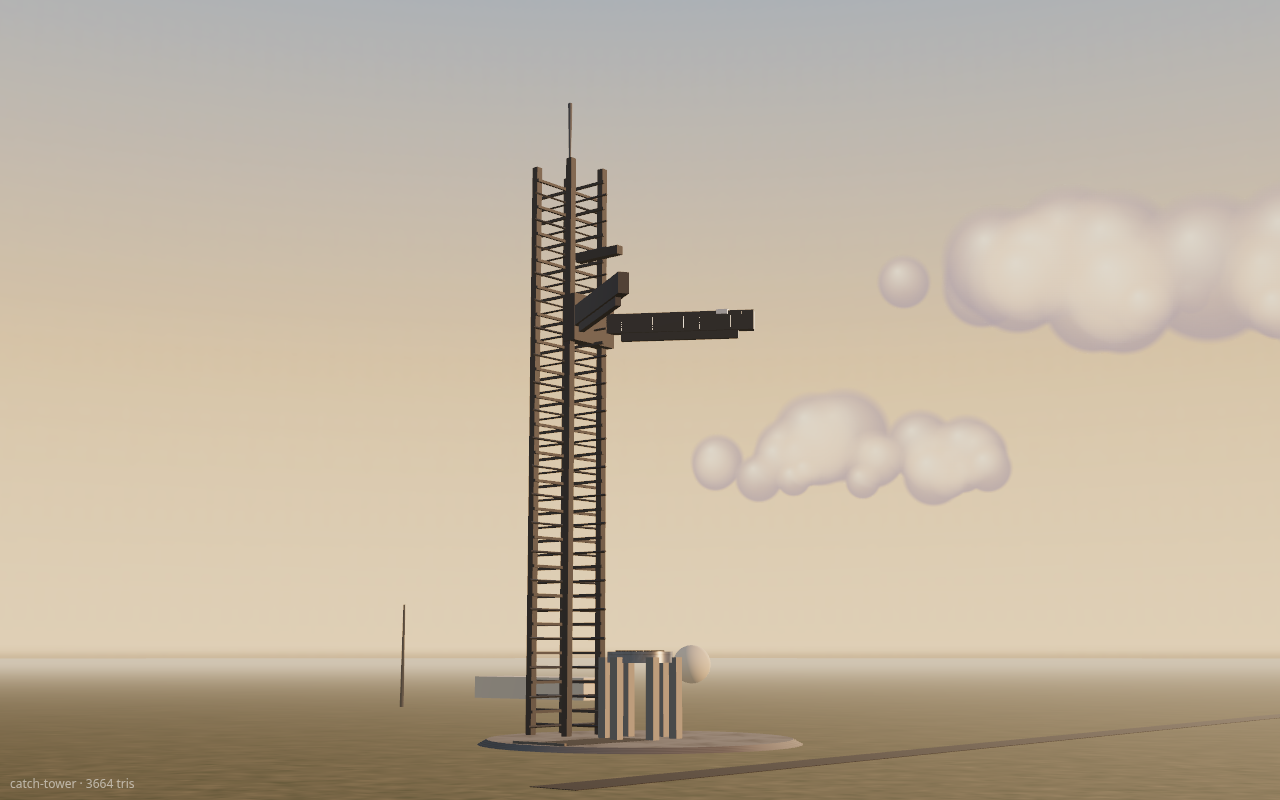
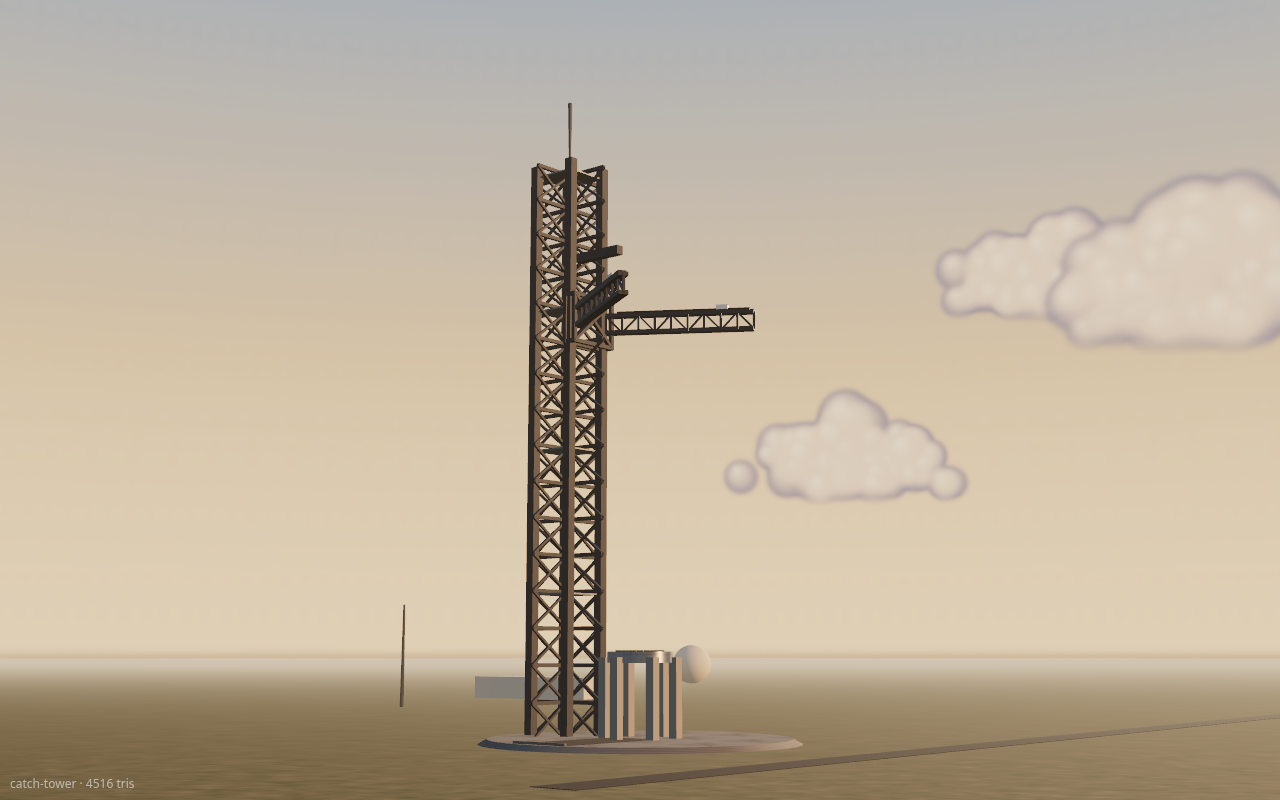
rockets-2 polish: cumulus clouds + haze, square X-braced catch tower + Warren-truss chopsticks, titan raceways/weld lands/QD plates, fine frost (fixes smudge), heron LOX frost, grid fins brighter w/ backing, carbon legs (fix fall-through to grid-fin alpha), close-ups bare + reframed

diff --git a/gfx/vehicles/vehicles.js b/gfx/vehicles/vehicles.js
@@ -23,6 +23,7 @@ function core9(detail, o = {}) {
   if (k.hi && !o.v11) for (const [x, z] of ringPos([[8, 1.22, PI / 8]])) k.add(new THREE.CylinderGeometry(0.52, 0.6, 0.35, 14, 1, true), 'shield', xf([x, 1.12, z])); // aft thermal boots
   const soot = Math.round((o.soot ?? 0.75) * 4) / 4; tube(k, r, r, H - 2.25, 2.25, `paint:${soot},0`, { hs: 1 }); // post-flight soot rising from the base (o.soot 0 fresh .. 1 heavily reflown)
   ring(k, r, H * 0.42, 0.02); raceway(k, r, 2.4, H - 0.4, PI / 2, 'dark');
+  if (o.frost) tube(k, r * 1.004, r * 1.004, H * 0.55 - 0.3, H * 0.45, 'frost', { open: true }); // LOX-tank frost (upper tank of the first stage) when fuelled
   decal(k, 'booster.side', r, H * 0.35, 4.2, 0, 1.3);
   if (o.nose) { ogive(k, r, 6.2, H, 'paint:0,0.6'); gridFins(k, r + 0.05, H - 1.6, 1.15, 1.4, 4, PI / 4, o.fins ?? 0.15); }
   else { tube(k, r, r, 6.6, H, o.v11 ? 'paint:0,0.2' : 'carbon'); gridFins(k, r + 0.05, H + 5.2, 1.15, 1.4, 4, PI / 4, o.fins ?? 0.15);
@@ -68,6 +69,8 @@ function titanBooster(detail, o) { const k = new Kit(detail), r = 4.5, H = o.boo
   tube(k, r, r, H - 4.6 - 1.8, 4.6, 'steel'); if (o.frost ?? 0) tube(k, r * 1.004, r * 1.004, H - 4.6 - 1.8, 4.6, 'frost', { open: true }); // cryo frost: LOX (lower) and CH4 (upper) tanks, clear at the common dome ring(k, r, 30, 0.03, 'grey'); ring(k, r, 52, 0.03, 'grey');
   if (k.hi) for (const a of [PI / 2 - 0.18, PI / 2 + 0.18]) k.add(new THREE.BoxGeometry(0.35, H - 8, 0.5), 'steel', xf([Math.cos(a) * (r + 0.15), H / 2, Math.sin(a) * (r + 0.15)], [0, -a, 0])); // chines
   decal(k, 'titanbooster.side', r, 40, 6, 0, 0.9);
+  if (k.hi) { for (const a of [PI * 0.25, PI * 1.25]) raceway(k, r, 6, H - 3, a, 'steel'); for (const y of [12, 30, 52]) ring(k, r, y, 0.035, 'grey'); // conduit raceways, weld lands
+    for (let i = 0; i < 4; i++) { const a = i * PI / 2 + PI / 4; k.add(new THREE.BoxGeometry(1.4, 1.0, 0.25), 'dark', xf([Math.cos(a) * (r + 0.1), 3.6, Math.sin(a) * (r + 0.1)], [0, -a + PI / 2, 0])); } } // QD / ground-service plates
   // vented hot-staging ring
   tube(k, r, r, 1.8, H - 1.8, 'dark'); if (k.hi) for (let i = 0; i < 24; i++) { const a = i / 24 * 2 * PI; k.add(new THREE.BoxGeometry(0.25, 1.4, 0.9), 'steel', xf([Math.cos(a) * r, H - 0.9, Math.sin(a) * r], [0, -a, 0])); }
   gridFins(k, r + 0.05, H - 5.5, 2.4, 3.2, o.gridFins || 3, PI / 2, o.fins ?? 1); // brief: v3/v4 boosters carry 3 grid fins
@@ -88,21 +91,32 @@ function ship(detail, y0, L = 52.1) { const k = new Kit(detail), r = 4.5, nose =
   for (const s of [-1, 1]) { flap(y0 + 1.5, 11, 5.0, 3.4, s, r); // aft
     flap(y0 + 2 + cyl + 3.5, 9, 3.4, 1.6, s, 4.1, 0); } // forward (on the nose, smaller, slightly leeward on v3)
   decal(k, 'ship.side', r, y0 + 20, 6, -PI / 2, 0.9); // leeward steel side
+  if (k.hi) { for (const a of [PI * 0.1, -PI * 0.1]) raceway(k, r, y0 + 3, y0 + 2 + cyl, a, 'steel'); for (const y of [y0 + 2.2, y0 + 2 + cyl * 0.42, y0 + 2 + cyl - 0.3]) ring(k, r, y, 0.04, 'grey'); // raceways, aft dome / common dome / forward weld lands
+    k.add(new THREE.BoxGeometry(1.6, 1.2, 0.2), 'dark', xf([0, y0 + 2 + cyl - 3, r + 0.05])); } // payload/door hatch outline
   const g = k.build('upper'); g.userData.top = y0 + 2 + cyl + nose; return g; }
 function titan(o) { const b = titanBooster(o.detail, o), s = ship(o.detail, b.userData.height, o.shipH || 52.1); return group('titan', [b, s], s.userData.top); }
 // ---- ground systems: catch tower with chopsticks + orbital launch mount ----
-function catchTower(o) { const k = new Kit(o.detail), W = 12, H = 146, TX = -24, lv = 7, n = Math.floor(H / lv);
+function catchTower(o) { const k = new Kit(o.detail), W = 12, H = 146, TX = -24, lv = 9, n = Math.floor(H / lv);
   tube(k, 30, 32, 2, -2, 'concrete', { seg: 48 });
-  for (const [dx, dz] of [[-1, -1], [1, -1], [1, 1], [-1, 1]]) k.add(new THREE.BoxGeometry(1.8, H, 1.8), 'tower', xf([TX + dx * W / 2, H / 2, dz * W / 2]));
-  for (let i = 0; i < n; i++) for (let f = 0; f < 4; f++) { const ry = f * PI / 2, cx = Math.sin(ry) * W / 2, cz = Math.cos(ry) * W / 2;
-    k.add(new THREE.BoxGeometry(W, 0.7, 0.7), 'tower', xf([TX + cx, (i + 1) * lv, cz], [0, ry + PI / 2, 0]));
-    if (k.hi || i % 2) k.add(new THREE.BoxGeometry(Math.hypot(W, lv), 0.45, 0.45), 'tower', xf([TX + cx, i * lv + lv / 2, cz], [(i % 2 ? 1 : -1) * Math.atan2(lv, W), ry + PI / 2, 0])); }
+  // square lattice: 4 corner chords, a horizontal ring and X bracing on every face of every bay, floor decks every 4 bays
+  for (const [dx, dz] of [[-1, -1], [1, -1], [1, 1], [-1, 1]]) k.add(new THREE.BoxGeometry(2.2, H, 2.2), 'tower', xf([TX + dx * W / 2, H / 2, dz * W / 2]));
+  const dl = Math.hypot(W, lv), da = Math.atan2(lv, W);
+  for (let i = 0; i < n; i++) { for (let f = 0; f < 4; f++) { const ry = f * PI / 2, cx = Math.sin(ry) * W / 2, cz = Math.cos(ry) * W / 2;
+      k.add(new THREE.BoxGeometry(W, 0.9, 0.9), 'tower', xf([TX + cx, (i + 1) * lv, cz], [0, ry + PI / 2, 0]));
+      for (const sg of k.hi ? [1, -1] : [i % 2 ? 1 : -1]) k.add(new THREE.BoxGeometry(dl, 0.6, 0.6), 'tower', xf([TX + cx, i * lv + lv / 2, cz], [0, ry + PI / 2, sg * da])); }
+    if (k.hi && i % 4 === 3) k.add(new THREE.BoxGeometry(W, 0.4, W), 'grey', xf([TX, (i + 1) * lv - 0.6, 0])); }
   tube(k, 0.25, 0.6, 18, H, 'grey', { x: TX, seg: 8 }); // lightning mast
-  // chopsticks: carriage + two arms (open), at the vehicle-catch height
+  // chopsticks: lattice carriage + two Warren-truss arms (top/bottom chords, verticals, diagonals), at the catch height
   const cy = o.catchY ?? 104, open = o.open ?? 0.55; k.push(xf([TX + W / 2 + 1, cy, 0]));
-  k.add(new THREE.BoxGeometry(4, 12, W + 3), 'tower');
-  for (const s of [-1, 1]) { k.push(xf([1, 0, s * 5.5], [0, -s * open, 0]));
-    k.add(new THREE.BoxGeometry(38, 5, 2.6), 'tower', xf([19, 0, 0])); k.add(new THREE.BoxGeometry(30, 2.2, 1.4), 'tower', xf([19, -3.4, 0])); if (k.hi) { k.add(new THREE.BoxGeometry(34, 0.6, 2.2), 'dark', xf([18, 1.9, 0])); for (let j = 1; j < 9; j++) k.add(new THREE.BoxGeometry(0.3, 3.2, 1.7), 'grey', xf([j * 4, 0, 0])); k.add(new THREE.BoxGeometry(3, 1.2, 2.4), 'paint:0,0', xf([30, 2.2, -s * 0.4])); }
+  for (const [y, z] of [[-6, -7], [-6, 7], [6, -7], [6, 7]]) k.add(new THREE.BoxGeometry(4, 1, 1), 'tower', xf([0, y, z]));
+  for (const z of [-7, 7]) for (const x of [-1.5, 1.5]) k.add(new THREE.BoxGeometry(1, 13, 1), 'tower', xf([x, 0, z]));
+  for (const x of [-1.5, 1.5]) for (const y of [-6, 6]) k.add(new THREE.BoxGeometry(1, 1, 15), 'tower', xf([x, y, 0]));
+  for (const sg of [1, -1]) k.add(new THREE.BoxGeometry(1, Math.hypot(12, 14), 0.8), 'tower', xf([1.5, 0, 0], [sg * Math.atan2(14, 12), 0, 0])); // carriage face X-brace (in the Y-Z plane)
+  for (const s2 of [-1, 1]) { k.push(xf([1, 0, s2 * 5.5], [0, -s2 * open, 0])); const L = 38, hT = 4.4, nb = 9, bw = L / nb;
+    for (const y of [hT / 2, -hT / 2]) k.add(new THREE.BoxGeometry(L, 1.0, 2.4), 'tower', xf([L / 2, y, 0]));
+    for (let j = 0; j <= nb; j++) k.add(new THREE.BoxGeometry(0.6, hT, 0.6), 'tower', xf([j * bw, 0, 0]));
+    for (let j = 0; j < nb; j++) k.add(new THREE.BoxGeometry(Math.hypot(bw, hT), 0.45, 0.45), 'tower', xf([j * bw + bw / 2, 0, 0], [0, 0, (j % 2 ? 1 : -1) * Math.atan2(hT, bw)]));
+    if (k.hi) { k.add(new THREE.BoxGeometry(34, 0.5, 2.0), 'dark', xf([20, hT / 2 + 0.7, 0])); k.add(new THREE.BoxGeometry(3, 1.2, 2.4), 'paint:0,0', xf([30, hT / 2 + 1.2, -s2 * 0.4])); } // catch rail + catch block
     k.pop(); }
   k.pop();
   // ship quick-disconnect arm

diff --git a/gfx/vehicles/hero.html b/gfx/vehicles/hero.html
@@ -25,14 +25,18 @@ function skyTex(seed = 3) { const W = 1024, H = 512, c = document.createElement(
   const hz = x.createLinearGradient(0, H * 0.43, 0, H * 0.52); hz.addColorStop(0, 'rgba(255,220,180,0)'); hz.addColorStop(1, 'rgba(255,214,170,0.7)'); x.fillStyle = hz; x.fillRect(0, H * 0.43, W, H * 0.09);
   const t = new THREE.CanvasTexture(c); t.mapping = THREE.EquirectangularReflectionMapping; t.colorSpace = THREE.SRGBColorSpace; return t; }
 // cumulus billboards (crisp, high-res, lit tops / shaded bases) placed around the horizon
-function cloudTex(seed) { const W = 512, H = 200, c = document.createElement('canvas'); c.width = W; c.height = H; const x = c.getContext('2d'); let s = seed; const r = () => (s = (s * 16807) % 2147483647) / 2147483647;
-  const puffs = []; for (let i = 0; i < 26; i++) { const px = W * (0.12 + r() * 0.76), rr = 22 + r() * 48 * (1 - Math.abs(px / W - 0.5)); puffs.push([px, H * 0.78 - rr * (0.5 + r() * 0.9), rr]); }
-  for (const [px, py, rr] of puffs) { const g = x.createRadialGradient(px, py + rr * 0.35, 0, px, py, rr); g.addColorStop(0, 'rgba(150,135,150,0.95)'); g.addColorStop(0.85, 'rgba(165,150,160,0.9)'); g.addColorStop(1, 'rgba(165,150,160,0)'); x.fillStyle = g; x.beginPath(); x.arc(px, py, rr, 0, 7); x.fill(); }
-  for (const [px, py, rr] of puffs) { const g = x.createRadialGradient(px - rr * 0.25, py - rr * 0.4, 0, px, py, rr); g.addColorStop(0, 'rgba(255,236,205,0.95)'); g.addColorStop(0.6, 'rgba(250,215,180,0.45)'); g.addColorStop(1, 'rgba(250,215,180,0)'); x.fillStyle = g; x.beginPath(); x.arc(px, py, rr, 0, 7); x.fill(); }
+function cloudTex(seed) { const W = 512, H = 220, c = document.createElement('canvas'); c.width = W; c.height = H; const x = c.getContext('2d'); let s = seed; const r = () => (s = (s * 16807) % 2147483647) / 2147483647;
+  // connected cumulus: many small puffs gaussian-distributed along a flat base, blurred; sunlit tops, blue-grey shaded bases
+  const g2 = () => (r() + r() + r() - 1.5) / 1.5, puffs = [], base = H * 0.8;
+  for (let i = 0; i < 90; i++) { const px = W / 2 + g2() * W * 0.36, ht = 1 - Math.abs(px - W / 2) / (W * 0.5), rr = 10 + r() * 26 * ht + 6; puffs.push([px, base - rr * 0.6 - r() * ht * H * 0.45, rr]); }
+  x.filter = 'blur(3px)';
+  for (const [px, py, rr] of puffs) { x.fillStyle = 'rgba(128,124,146,0.9)'; x.beginPath(); x.arc(px, py, rr, 0, 7); x.fill(); }
+  for (const [px, py, rr] of puffs) { const g = x.createRadialGradient(px - rr * 0.3, py - rr * 0.45, 0, px, py, rr); g.addColorStop(0, 'rgba(255,232,200,1)'); g.addColorStop(0.55, 'rgba(240,206,176,0.7)'); g.addColorStop(1, 'rgba(240,206,176,0)'); x.fillStyle = g; x.beginPath(); x.arc(px, py, rr, 0, 7); x.fill(); }
+  x.filter = 'none'; x.globalCompositeOperation = 'destination-out'; const cut = x.createLinearGradient(0, base - 6, 0, base + 10); cut.addColorStop(0, 'rgba(0,0,0,0)'); cut.addColorStop(1, 'rgba(0,0,0,1)'); x.fillStyle = cut; x.fillRect(0, base - 6, W, H - base + 6);
   const t = new THREE.CanvasTexture(c); t.colorSpace = THREE.SRGBColorSpace; return t; }
 const clouds = new THREE.Group(); scene.add(clouds);
 { let s = 5; const r = () => (s = (s * 16807) % 2147483647) / 2147483647; for (let i = 0; i < 26; i++) { const sp = new THREE.Sprite(new THREE.SpriteMaterial({ map: cloudTex(11 + i * 7), transparent: true, depthWrite: false, fog: false, opacity: 0.9 }));
-  const a = r() * Math.PI * 2, R = 3500 + r() * 3000, w = 700 + r() * 1300; sp.scale.set(w, w * 200 / 512, 1); sp.position.set(Math.cos(a) * R, R * Math.tan((3 + r() * 14) * Math.PI / 180), Math.sin(a) * R); sp.renderOrder = -1; clouds.add(sp); } }
+  const a = r() * Math.PI * 2, R = 3500 + r() * 3000, w = 700 + r() * 1300; sp.scale.set(w, w * 220 / 512, 1); sp.position.set(Math.cos(a) * R, R * Math.tan((3 + r() * 14) * Math.PI / 180), Math.sin(a) * R); sp.renderOrder = -1; clouds.add(sp); } }
 const sky = skyTex(); scene.background = sky; scene.environment = GX.envTexture(); scene.environmentIntensity = 0.45; // game env, dimmed: fill without flattening
 const hemi = new THREE.HemisphereLight(0xbfd4f0, 0x5a4a38, 0.35); scene.add(hemi);
 const key = new THREE.DirectionalLight(0xffc48a, 4.2); scene.add(key); scene.add(key.target); // golden-hour key
@@ -82,7 +86,7 @@ const RADIUS = { 'sparrow-1': 0.84, 'heron-9': 1.83, 'heron-9-v11': 1.83, 'heron
 let cur = null;
 // shot: { id, opts, hero:true (auto-frame 85 % of the height, low 3/4) | cam/aim in vehicle heights, fov, sunAz (deg, from camera), only, legs, bare (no set) }
 async function shot(s) { if (cur) { dispose(cur); cur = null; } const h = VEHICLES[s.id].height, rV = RADIUS[s.id] || 2;
-  const lift = s.bare ? (clearStage(), 0) : setStage(s.id, h, rV);
+  const bare = s.bare ?? !(s.hero || s.set); const lift = bare ? (clearStage(), 0) : setStage(s.id, h, rV);
   cur = build(s.id, { detail: s.lo ? 'lo' : 'hi', ...(s.opts || {}) }); cur.position.y = s.id === 'catch-tower' ? 0 : lift; stage.add(cur);
   if (s.only) for (const c of cur.children) c.visible = c.name === s.only;
   if (s.legs !== undefined) for (const L of cur.userData.legs || []) setLegs(L, s.legs);

diff --git a/gfx/vehicles/textures.js b/gfx/vehicles/textures.js
@@ -54,9 +54,11 @@ export function bell(ext = false) { return once('bell' + ext, () => { const [c, 
 export function solarCells() { return once('solar', () => { const [c, x] = canvas(256, 128); x.fillStyle = '#0d1630'; x.fillRect(0, 0, 256, 128); x.strokeStyle = '#2a3c6a'; x.lineWidth = 1;
   for (let i = 0; i <= 256; i += 16) { x.beginPath(); x.moveTo(i, 0); x.lineTo(i, 128); x.stroke(); } for (let j = 0; j <= 128; j += 16) { x.beginPath(); x.moveTo(0, j); x.lineTo(256, j); x.stroke(); } return fin(c); }); }
 // frost bands (alpha) for a cryogenic tank barrel: v = 0 bottom .. 1 top; bands = [[v0, v1], ...]
-export function frost(bands = [[0.04, 0.5], [0.56, 0.86]]) { return once('frost' + bands, () => { const [c, x] = canvas(64, 512), r = rng(11); x.fillStyle = '#000'; x.fillRect(0, 0, 64, 512);
-  for (const [a, b] of bands) { const y0 = 512 * (1 - b), y1 = 512 * (1 - a), g = x.createLinearGradient(0, y0, 0, y1); g.addColorStop(0, 'rgba(255,255,255,0)'); g.addColorStop(0.08, 'rgba(255,255,255,0.32)'); g.addColorStop(0.92, 'rgba(255,255,255,0.38)'); g.addColorStop(1, 'rgba(255,255,255,0)'); x.fillStyle = g; x.fillRect(0, y0, 64, y1 - y0); }
-  for (let i = 0; i < 400; i++) { x.fillStyle = `rgba(0,0,0,${r() * 0.35})`; x.fillRect(r() * 64, r() * 512, 1 + r() * 3, 2 + r() * 14); } // runs and thin patches
+export function frost(bands = [[0.04, 0.5], [0.56, 0.86]]) { return once('frost' + bands, () => { const [c, x] = canvas(256, 1024), r = rng(11); x.fillStyle = '#000'; x.fillRect(0, 0, 256, 1024);
+  // fine, even cryo frost: soft-edged bands, many thin vertical runs (no coarse dark blotches)
+  for (const [a, b] of bands) { const y0 = 1024 * (1 - b), y1 = 1024 * (1 - a), g = x.createLinearGradient(0, y0, 0, y1); g.addColorStop(0, 'rgba(255,255,255,0)'); g.addColorStop(0.06, 'rgba(255,255,255,0.62)'); g.addColorStop(0.94, 'rgba(255,255,255,0.7)'); g.addColorStop(1, 'rgba(255,255,255,0)'); x.fillStyle = g; x.fillRect(0, y0, 256, y1 - y0); }
+  for (let i = 0; i < 1600; i++) { x.fillStyle = `rgba(0,0,0,${0.05 + r() * 0.12})`; x.fillRect(r() * 256, r() * 1024, 1, 4 + r() * 20); }
+  for (let i = 0; i < 1200; i++) { x.fillStyle = `rgba(255,255,255,${r() * 0.15})`; x.fillRect(r() * 256, r() * 1024, 1, 1 + r() * 3); }
   const t = fin(c, { srgb: false }); t.wrapT = THREE.ClampToEdgeWrapping; return t; }); }
 // engine skirt: dark grey with soot streaks and panel bolts
 export function skirt() { return once('skirt', () => { const [c, x] = canvas(256, 128), r = rng(4); const g = x.createLinearGradient(0, 128, 0, 0); g.addColorStop(0, '#1a1816'); g.addColorStop(1, '#4a4a4c'); x.fillStyle = g; x.fillRect(0, 0, 256, 128);

diff --git a/gfx/vehicles/kit.js b/gfx/vehicles/kit.js
@@ -13,15 +13,15 @@ export function mat(key) {
   switch (k) {
     case 'paint': { const [soot, top] = (arg || '0,0').split(',').map(Number); m = new P({ map: T.paint({ soot, sootTop: top }), roughness: 0.45, metalness: 0.0, clearcoat: 0.3, clearcoatRoughness: 0.35 }); break; }
     case 'silver': m = new S({ map: T.paint({ base: '#c9ccd0', rings: 8 }), roughness: 0.35, metalness: 0.7 }); break;
-    case 'carbon': m = new S({ map: T.carbon(), roughness: 0.48, metalness: 0.25 }); break;
-    case 'ti': m = new S({ color: 0x77726c, roughness: 0.55, metalness: 1, alphaMap: T.gridFin(), alphaTest: 0.5, side: THREE.DoubleSide }); break;
+    case 'carbon': m = new P({ map: T.carbon(), color: 0x3c3c40, roughness: 0.5, metalness: 0.1, clearcoat: 0.6, clearcoatRoughness: 0.3 }); break; // clearcoat: legs catch a highlight against the dark interstage
+    case 'ti': m = new S({ color: 0xa8a29a, roughness: 0.55, metalness: 1, alphaMap: T.gridFin(), alphaTest: 0.5, side: THREE.DoubleSide }); break;
     case 'tiframe': m = new S({ color: 0x5f5b56, roughness: 0.5, metalness: 1 }); break;
     case 'bell': m = new S({ map: T.bell(false), roughness: 0.38, metalness: 0.9, side: THREE.DoubleSide }); break;
     case 'bellx': m = new S({ map: T.bell(true), roughness: 0.32, metalness: 0.95, side: THREE.DoubleSide }); break;
     // brushed stainless: MeshPhysical anisotropy (node material on both WebGPU and WebGL2 backends; tangents are
     // generated in build() around the vehicle axis) plus a bright env so it never reads as black
     case 'steel': m = new P({ map: T.steelSkin(), roughness: 0.32, metalness: 0.85, anisotropy: 0.65, anisotropyRotation: Math.PI / 2, envMapIntensity: 1.25 }); break;
-    case 'frost': m = new S({ color: 0xf4f7fa, roughness: 0.95, metalness: 0, alphaMap: T.frost(), transparent: true, depthWrite: false, polygonOffset: true, polygonOffsetFactor: -1 }); break;
+    case 'frost': m = new S({ color: 0xffffff, emissive: 0x14161a, roughness: 0.9, metalness: 0, alphaMap: T.frost(), transparent: true, depthWrite: false, polygonOffset: true, polygonOffsetFactor: -1 }); break;
     case 'skirt': m = new S({ map: T.skirt(), roughness: 0.75, metalness: 0.35 }); break;
     case 'shield': m = new S({ map: T.blanket(), roughness: 0.9, metalness: 0.1 }); break;
     case 'tiles': m = new S({ map: T.hexTiles(), roughness: 0.82, metalness: 0.05 }); break;

diff --git a/gfx/vehicles/parts.js b/gfx/vehicles/parts.js
@@ -30,7 +30,7 @@ export function gridFins(k, r, y, w, h, n = 4, a0 = PI / 4, deploy = 1) {
   for (let i = 0; i < n; i++) { const a = a0 + i / n * 2 * PI; k.push(xf([Math.cos(a) * r, y, Math.sin(a) * r], [0, -a, 0]));
     k.push(xf([0, 0, 0], [0, 0, -deploy * PI / 2 * 0.98])); // hinged at the hull: stowed points up, deployed sticks out
     if (k.hi) { k.add(new THREE.PlaneGeometry(w, h), 'ti', xf([0, h / 2 + 0.1, 0], [0, PI / 2, 0]));
-      const t = 0.08; for (const [px, py, sx, sy] of [[0, 0.1, w, t], [0, h + 0.1, w, t], [-w / 2, h / 2 + 0.1, t, h], [w / 2, h / 2 + 0.1, t, h]]) k.add(new THREE.BoxGeometry(t * 3, sy, sx), 'tiframe', xf([0, py, px]));
+      k.add(new THREE.BoxGeometry(0.22, h * 0.96, w * 0.96), 'dark', xf([-0.14, h / 2 + 0.1, 0])); const t = 0.12; for (const [px, py, sx, sy] of [[0, 0.1, w, t], [0, h + 0.1, w, t], [-w / 2, h / 2 + 0.1, t, h], [w / 2, h / 2 + 0.1, t, h]]) k.add(new THREE.BoxGeometry(t * 3, sy, sx), 'tiframe', xf([0, py, px]));
     } else k.add(new THREE.BoxGeometry(0.12, h, w), 'tiframe', xf([0, h / 2 + 0.1, 0]));
     k.pop(); k.add(new THREE.BoxGeometry(0.5, 0.6, 0.6), 'dark', xf([0.1, 0, 0])); k.pop(); }
 }
